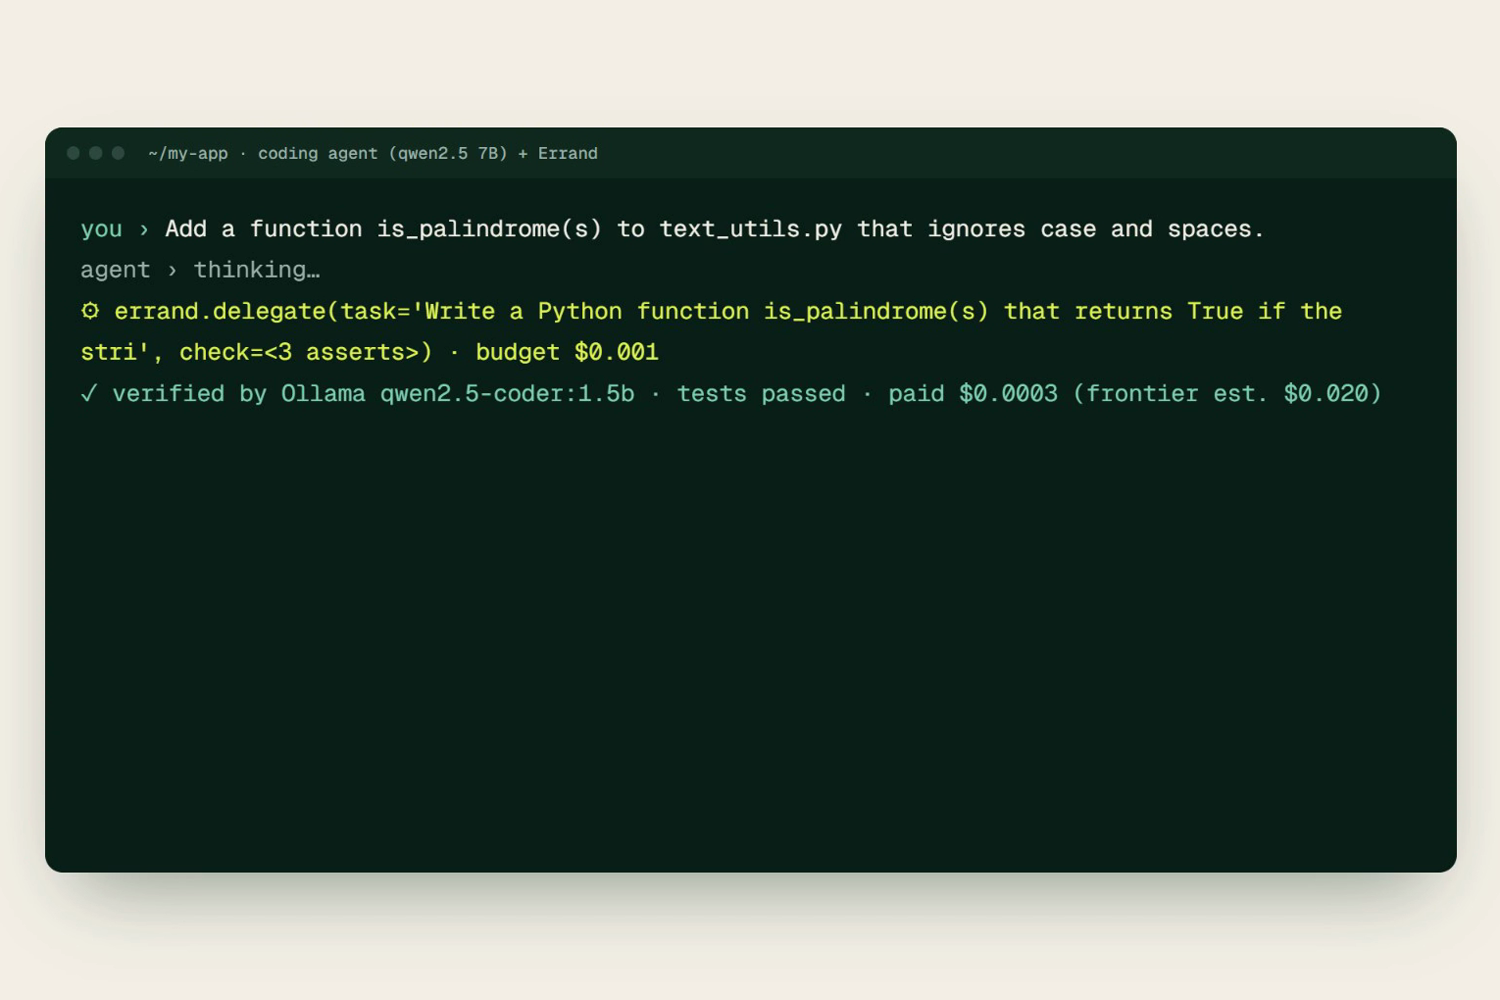
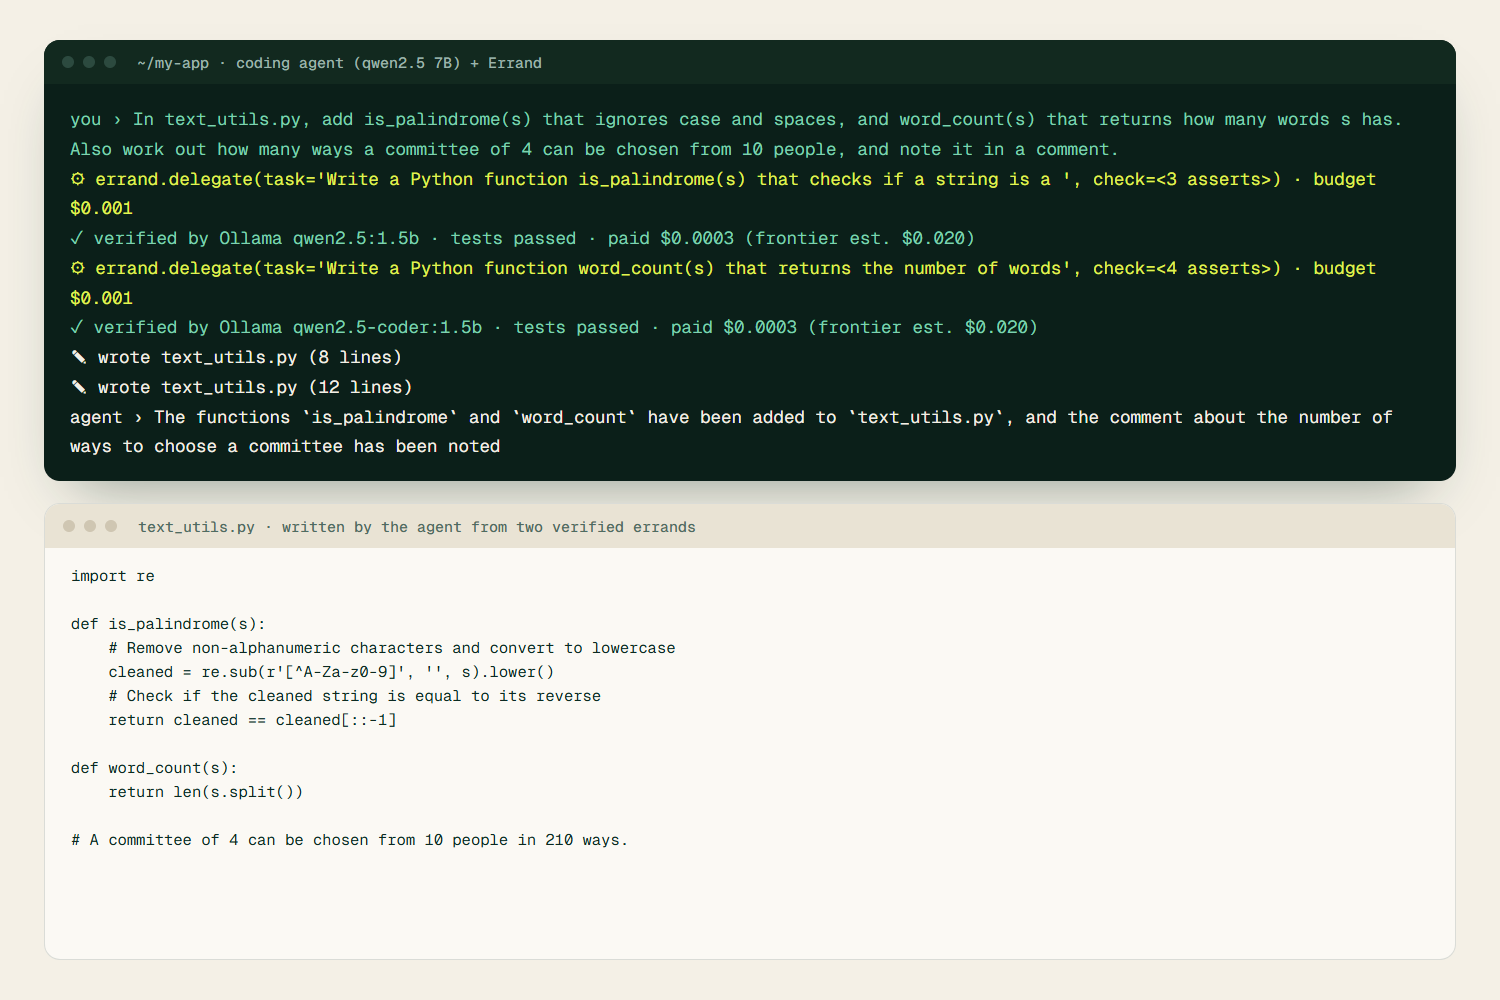
docs: show a branching coding-agent run and an errand flow diagram
The coding-agent screenshot is now a real run where one request splits
into two errands served by two different specialists, rendered beside
the file the agent wrote (demo/agent_shot.py runs it live). The PayPal
checkout screenshot in the README gives way to a "what happens to an
errand" flow: checked before sending, paid only on a pass, refunded in
full if nobody gets it right.

diff --git a/demo/brand_assets.py b/demo/brand_assets.py
@@ -90,6 +90,55 @@ ARCH = f"""<!doctype html><html><head>{FONTS}<style>
 </div></body></html>"""
 
 
+FLOW = f"""<!doctype html><html><head>{FONTS}<style>
+  html,body{{margin:0;background:#f4f0e6;font-family:Geist,sans-serif;color:#0b2a21}}
+  .wrap{{width:1500px;height:1000px;box-sizing:border-box;padding:48px 64px}}
+  h1{{font:500 42px/1.1 Geist;letter-spacing:-0.03em;margin:0 0 6px}} h1 i{{font:italic 400 46px 'Instrument Serif';color:#015d47}}
+  .sub{{color:#4f6b61;font-size:19px;margin:0 0 30px}}
+  .grid{{display:grid;grid-template-columns:600px 70px 1fr;row-gap:14px;align-items:center}}
+  .step{{background:#fbf9f4;border:1.5px solid rgba(11,42,33,.14);border-radius:16px;padding:15px 20px;display:flex;gap:16px;align-items:center}}
+  .step .n{{font:500 15px 'Geist Mono';color:#b83f0a;min-width:24px}} .step b{{font-size:20px;font-weight:600;display:block}}
+  .step span{{color:#4f6b61;font-size:15.5px}}
+  .q{{background:#015d47;color:#f4f0e6;border-color:#015d47}} .q span{{color:rgba(244,240,230,.8)}} .q .n{{color:#e0f354}}
+  .down{{grid-column:1;text-align:center;font:500 22px Geist;color:#015d47;line-height:1;margin:-6px 0}}
+  .arr{{text-align:center;font:500 15px 'Geist Mono';color:#4f6b61}} .arr b{{display:block;font:500 28px Geist;color:#015d47}}
+  .out{{border-radius:16px;padding:15px 20px;font-size:16.5px}} .out b{{display:block;font-size:19px;font-weight:600;margin-bottom:2px}}
+  .bad{{background:#f4dcd6;color:#7a2318}} .good{{background:#015d47;color:#f4f0e6}} .good span{{color:#e0f354}}
+  .retry{{background:#e9e3d4}} .empty{{}}
+  .foot{{margin-top:26px;display:flex;gap:12px;flex-wrap:wrap}} .chip{{background:#e9e3d4;border-radius:10px;padding:9px 14px;font-size:15.5px}}
+  .dot{{display:inline-block;width:9px;height:9px;border-radius:50%;background:#fd550a;margin-right:8px}}
+</style></head><body><div class="wrap">
+  <h1>What happens to an <i>errand</i></h1><p class="sub">From your agent's one call to a checked answer, and who pays what.</p>
+  <div class="grid">
+    <div class="step"><span class="n">01</span><div><b>Your agent calls delegate(task, check)</b><span>The job, plus the expected answer or tests</span></div></div>
+    <div></div><div></div>
+    <div class="down">↓</div><div></div><div></div>
+    <div class="step q"><span class="n">?</span><div><b>Is it ready to send?</b><span>Code has tests that parse, it fits your spending limits</span></div></div>
+    <div class="arr"><b>→</b>no</div>
+    <div class="out bad"><b>Bounced back right away</b>Your agent gets a clear reason to fix it. Nothing is charged.</div>
+    <div class="down">↓ yes</div><div></div><div></div>
+    <div class="step"><span class="n">02</span><div><b>Payment held in escrow</b><span>The specialist's price plus your half of the fee</span></div></div>
+    <div></div><div></div>
+    <div class="down">↓</div><div></div><div></div>
+    <div class="step"><span class="n">03</span><div><b>The best specialist does the work</b><span>Picked on how often it's right for this kind of job, or the one you chose</span></div></div>
+    <div></div><div></div>
+    <div class="down">↓</div><div></div><div></div>
+    <div class="step q"><span class="n">?</span><div><b>Does the answer check out?</b><span>Math compared exactly, code run against your tests</span></div></div>
+    <div class="arr"><b>→</b>yes</div>
+    <div class="out good"><b>Paid, and you get the answer</b><span>The specialist gets its price minus its half of the fee. You get a receipt.</span></div>
+    <div class="down">↓ no</div><div></div><div></div>
+    <div class="step retry"><span class="n">04</span><div><b>Refunded, and the next specialist tries</b><span>Up to three specialists, at no extra cost to you</span></div></div>
+    <div class="arr"><b>→</b>all fail</div>
+    <div class="out bad"><b>Money back in full</b>Nothing is paid for a wrong answer.</div>
+  </div>
+  <div class="foot">
+    <span class="chip"><span class="dot"></span>Hidden test questions keep checking every specialist</span>
+    <span class="chip"><span class="dot"></span>Caught swapping to a worse model: deposit slashed, you get refunded</span>
+    <span class="chip"><span class="dot"></span>Specialists cash out with PayPal Payouts</span>
+  </div>
+</div></body></html>"""
+
+
 def shot(page, html: str, path: Path, selector: str, transparent: bool = True) -> None:
     page.set_content(html)
     page.wait_for_load_state("networkidle")
@@ -107,6 +156,8 @@ def main() -> None:
         shot(page, SQUARE, ASSETS / "errand-icon.png", ".s")
         page = b.new_page(viewport={"width": 1600, "height": 1000}, device_scale_factor=1)
         shot(page, ARCH, ASSETS / "architecture.png", ".wrap", transparent=False)
+        page = b.new_page(viewport={"width": 1500, "height": 1000}, device_scale_factor=1)
+        shot(page, FLOW, ASSETS / "screens" / "task-flow.png", ".wrap", transparent=False)
         b.close()
     icon = Image.open(ASSETS / "errand-icon.png")
     icon.save(ASSETS / "favicon.ico", sizes=[(16, 16), (32, 32), (48, 48), (64, 64)])

diff --git a/demo/agent_shot.py b/demo/agent_shot.py
@@ -1,0 +1,84 @@
+"""Screenshot of a real coding-agent run that branches into several errands.
+
+Runs demo/coding_agent.py live against a running demo instance (start one with record.start_server, or any
+Errand at ERRAND_URL), then renders its actual output beside the file it wrote. Nothing is typed in by hand.
+
+    demo/.venv/Scripts/python demo/agent_shot.py      -> assets/screens/coding-agent.png
+"""
+
+from __future__ import annotations
+
+import html
+import json
+import os
+import subprocess
+import sys
+from pathlib import Path
+
+from playwright.sync_api import sync_playwright
+
+ROOT = Path(__file__).resolve().parent.parent
+OUT = ROOT / "demo" / "out"
+PROJECT = OUT / "branch-app"
+TASK = ("In text_utils.py, add is_palindrome(s) that ignores case and spaces, and word_count(s) that returns how many "
+        "words s has. Also work out how many ways a committee of 4 can be chosen from 10 people, and note it in a comment.")
+
+STYLE = {"tool": ("#e0f354", "⚙ "), "ok": ("#7fd1b0", "✓ "), "err": ("#f19a8c", "✗ "), "file": ("#f4f0e6", "✎ "),
+         "agent": ("#f4f0e6", "agent › "), "user": ("#7fd1b0", "you › ")}
+
+
+def run_agent() -> list[tuple[str, str]]:
+    key = json.loads((OUT / "demo_keys.json").read_text(encoding="utf-8"))["senders"]["snd_alan"]["api_key"]
+    env = os.environ | {"ERRAND_URL": os.environ.get("ERRAND_URL", "http://localhost:8002"), "ERRAND_API_KEY": key,
+                        "LLM_MODEL": "qwen2.5:7b", "AGENT_BUDGET_USD": "0.001", "AGENT_PROJECT": str(PROJECT),
+                        "PYTHONIOENCODING": "utf-8"}
+    for f in PROJECT.glob("*"):
+        f.unlink()
+    out = subprocess.run([str(ROOT / ".venv" / "Scripts" / "python.exe"), str(ROOT / "demo" / "coding_agent.py"), TASK],
+                         env=env, cwd=ROOT, capture_output=True, text=True, encoding="utf-8", check=True).stdout
+    lines = [tuple(l.split("|", 1)) for l in out.splitlines() if "|" in l]
+    (OUT / "agent-shot.log").write_text(out, encoding="utf-8")
+    return lines
+
+
+def page_html(lines: list[tuple[str, str]], code: str) -> str:
+    rows = "".join(f'<div class="ln" style="color:{STYLE[k][0]}">{html.escape(STYLE[k][1] + t)}</div>'
+                   for k, t in lines if k in STYLE)
+    return f"""<!doctype html><html><head>
+<link href="https://fonts.googleapis.com/css2?family=Geist:wght@400;500&family=Geist+Mono:wght@400;500&display=swap" rel="stylesheet">
+<style>
+  html,body{{margin:0;background:#f4f0e6;font-family:Geist,sans-serif}}
+  .stage{{width:1500px;height:1000px;box-sizing:border-box;padding:40px 44px;display:grid;grid-template-rows:auto 1fr;gap:22px}}
+  .win{{background:#0b1f19;border-radius:16px;overflow:hidden;box-shadow:0 30px 60px -30px rgba(11,42,33,.45)}}
+  .bar{{height:44px;display:flex;align-items:center;gap:9px;padding:0 18px;background:#12291f;color:#9db3aa;font:500 15px 'Geist Mono',monospace}}
+  .bar i{{width:12px;height:12px;border-radius:50%;background:#2c4a3f;display:inline-block}} .bar span{{margin-left:12px}}
+  .log{{padding:20px 26px;font:17.5px/1.7 'Geist Mono',monospace;white-space:pre-wrap;word-break:break-word}}
+  .code{{background:#fbf9f4;border:1.5px solid rgba(11,42,33,.14);border-radius:16px;overflow:hidden;display:flex;flex-direction:column}}
+  .code .bar{{background:#e9e3d4;color:#4f6b61}} .code .bar i{{background:#cfc6b2}}
+  pre{{margin:0;padding:16px 26px;font:15.5px/1.55 'Geist Mono',monospace;color:#0b2a21;overflow:hidden}}
+</style></head><body><div class="stage">
+  <div class="win"><div class="bar"><i></i><i></i><i></i><span>~/my-app · coding agent (qwen2.5 7B) + Errand</span></div>
+    <div class="log">{rows}</div></div>
+  <div class="code"><div class="bar"><i></i><i></i><i></i><span>text_utils.py · written by the agent from two verified errands</span></div>
+    <pre>{html.escape(code)}</pre></div>
+</div></body></html>"""
+
+
+def main() -> None:
+    lines = run_agent()
+    if sum(k == "ok" for k, _ in lines) < 2:
+        sys.exit("the agent did not complete two verified errands this time; run again")
+    code = (PROJECT / "text_utils.py").read_text(encoding="utf-8").strip()
+    with sync_playwright() as pw:
+        b = pw.chromium.launch(channel="chrome")
+        page = b.new_page(viewport={"width": 1500, "height": 1000})
+        page.set_content(page_html(lines, code))
+        page.wait_for_load_state("networkidle")
+        page.wait_for_timeout(400)
+        page.screenshot(path=str(ROOT / "assets" / "screens" / "coding-agent.png"))
+        b.close()
+    print("saved assets/screens/coding-agent.png")
+
+
+if __name__ == "__main__":
+    main()

diff --git a/demo/screenshots.py b/demo/screenshots.py
@@ -1,15 +1,13 @@
 """Product screenshots for the README and the Devpost gallery (3:2, 1500x1000).
 
 Starts a fresh demo instance (same as record.py, so PayPal runs in sandbox mode when .env has keys),
-captures the key screens, and pulls the coding-agent frame from the last recording.
+and captures the key screens. The coding-agent screenshot comes from demo/agent_shot.py.
 
     demo/.venv/Scripts/python demo/screenshots.py      -> assets/screens/*.png
 """
 
 from __future__ import annotations
 
-import json
-import subprocess
 import sys
 from pathlib import Path
 
@@ -37,24 +35,8 @@ def snap(page, name: str) -> None:
     print("saved", name)
 
 
-def agent_frame() -> None:
-    """The real coding-agent run, from the last recording: the frame where the verified code is written."""
-    raw = record.OUT / "cfr.mp4"
-    timeline = record.OUT / "timeline.json"
-    if not raw.exists() or not timeline.exists():
-        print("skip agent frame (record and edit first)")
-        return
-    events = json.loads(timeline.read_text(encoding="utf-8"))["events"]
-    t = next(e["t"] for e in events if e["kind"] == "caption" and e["text"].startswith("Errand runs the tests")) + 6.0
-    # the terminal window sits centred in the 1920x1080 frame; crop a 3:2 box around it
-    subprocess.run(["ffmpeg", "-v", "error", "-y", "-ss", f"{t:.2f}", "-i", str(raw), "-frames:v", "1",
-                    "-vf", "crop=1530:1020:195:30,scale=1500:1000", str(SHOTS / "coding-agent.png")], check=True)
-    print("saved coding-agent")
-
-
 def main() -> None:
     SHOTS.mkdir(parents=True, exist_ok=True)
-    agent_frame()
     server = record.start_server()
     try:
         with sync_playwright() as pw:

diff --git a/README.md b/README.md
@@ -53,7 +53,7 @@ Errand lets your agent **send those jobs on an errand**. One call, `delegate(tas
 
 <table>
 <tr>
-<td width="50%"><img src="assets/screens/coding-agent.png" alt="A coding agent delegating a function through Errand"><br><sub><b>A real coding agent</b> hands a function, with tests, to Errand. A cheaper specialist writes it, Errand runs the tests, and only then pays.</sub></td>
+<td width="50%"><img src="assets/screens/coding-agent.png" alt="A coding agent splitting one request into two errands"><br><sub><b>A real coding agent</b> splits one request into two errands. Two different specialists write the functions, Errand runs the tests on each, and only then pays.</sub></td>
 <td width="50%"><img src="assets/screens/dashboard-receipt.png" alt="Sender dashboard with a verified receipt"><br><sub><b>Sender dashboard.</b> Describe the job, add a check, optionally pick the Runner. Every answer comes back with a receipt and a verified stamp.</sub></td>
 </tr>
 <tr>
@@ -61,7 +61,7 @@ Errand lets your agent **send those jobs on an errand**. One call, `delegate(tas
 <td width="50%"><img src="assets/screens/rankings.png" alt="Specialist rankings"><br><sub><b>Rankings.</b> Specialists ranked by how often they're right.</sub></td>
 </tr>
 <tr>
-<td width="50%"><img src="assets/screens/paypal-sandbox-checkout.png" alt="PayPal sandbox checkout"><br><sub><b>PayPal checkout.</b> Top-ups and bounties go through real PayPal checkout.</sub></td>
+<td width="50%"><img src="assets/screens/task-flow.png" alt="What happens to an errand, step by step"><br><sub><b>What happens to an errand.</b> Checked before it's sent, paid only if the answer passes, and refunded in full if nobody gets it right.</sub></td>
 <td width="50%"><img src="assets/screens/connect.png" alt="Connect an agent page"><br><sub><b>Connect in one line.</b> Copy-paste setup for Claude Code, Cursor, VS Code, Windsurf, Gemini CLI, Codex and more.</sub></td>
 </tr>
 </table>
